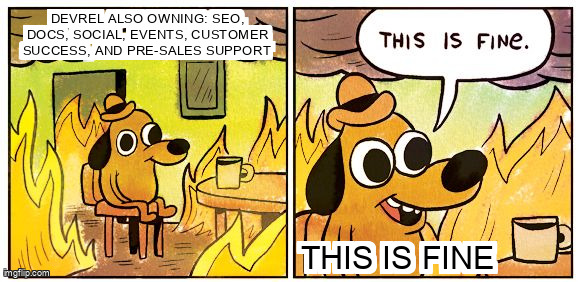
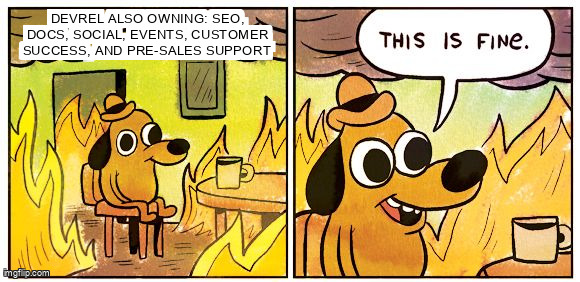
fix: fix h4 formatting, vary framework stage structure, fix This Is Fine meme

Changed region(s): [[0.4966, 0.8511, 0.869, 0.9929]]

diff --git a/src/content/blog/running-devrel-2026.md b/src/content/blog/running-devrel-2026.md
@@ -79,43 +79,45 @@ The reason I find it useful: most DevRel programs measure activity, not progress
 
 ### Discover
 
-Developer first encounters your product. They searched for something, found your docs, hit your README, heard about you in a Slack channel. You have maybe 30 seconds.
+Developer first hears about you. Searched for a solution, found your docs, hit your README, caught your name in a Slack channel. You have maybe 30 seconds before they decide whether to keep reading.
 
-What breaks here: a homepage that explains the architecture before explaining the problem you solve, a README with three paragraphs and no working example, thin search presence on the queries your ICP actually types. Developer bounces before understanding why they should care.
+The metric question here is simple: are developers finding us? Organic traffic by source, search rankings for ICP queries, AI referral traffic. Not "are we publishing" - whether the publishing is actually reaching people.
 
-What I track: organic traffic by source, search rankings for ICP queries, content engagement rates, AI referral traffic. The question is "are developers finding us?" - not "are we publishing?"
+The most common break at this stage isn't thin content. It's a homepage that leads with architecture instead of the problem it solves.
 
 ### Evaluate
 
-Developer decides whether the product is worth trying. They read docs, look at pricing, check how active the GitHub repo is, compare you against alternatives.
+Developer decides whether the product is worth trying. They read docs, look at pricing, check GitHub activity, compare against alternatives. Three things will kill this stage before they ever try the product:
 
-What breaks here: "contact sales" where pricing should be, a changelog that hasn't been updated in six months, a GitHub issues backlog full of unanswered questions. All of it signals risk. Developer moves on.
+- "Contact sales" where pricing should be
+- A changelog that hasn't moved in six months
+- A GitHub issues backlog full of unanswered questions
 
-What I track: docs page views (especially getting-started sections), pricing page scroll depth, competitor comparison page traffic, free tier signup conversion. The goal is getting from "found you" to "made an account."
+All three signal the same thing: risk. Developer moves on.
+
+I track docs page views on getting-started sections and pricing page scroll depth. If people are reading but not signing up, that's an Evaluate problem - something in the friction between "found you" and "made an account."
 
 ### Learn
 
-Developer tries to get something working. This is where most developer tools die.
+This is where most developer tools die. Not because the product is bad - because the first 20 minutes are brutal.
 
-Time to first value is the number here. How long from "I signed up" to "I have a working implementation"? If it's past 20 minutes, stop everything and fix that. No content strategy compensates for a quickstart that fails on half the platforms your developers actually use. Benchmark it yourself against competitors with a stopwatch.
+Time to first value is the number that matters here. How long from "I signed up" to "I have a working output"? If it's past 20 minutes, nothing else matters until you fix that. I benchmark this myself against two or three competitors with an actual stopwatch. Not a gut feeling. A stopwatch.
 
-What I track: tutorial completion rates, docs search queries (failed searches are the most valuable - they show you exactly what's missing), community question volume, average time to resolution. When the same question keeps appearing in community, that's a docs bug masquerading as a support problem.
+Failed docs searches are the most underrated signal I track. Every search query with zero results is a gap someone hit in the wild. When the same question keeps coming up in community, that's a docs bug - not a support problem.
 
 ### Build
 
-Developer is doing real work. API calls, integrations, debugging production-adjacent problems.
+Developer is doing real work. API calls, integrations, debugging against production data.
 
-DevRel's job at this stage is less about content and more about making sure the feedback loop back to engineering actually functions. SDK quality matters here. Error messages either help or actively hurt. The difference between "this is annoying" and "I'm switching to the competitor" usually happens quietly, in a terminal window, when something fails and the error is useless.
+DevRel's job at Build is less about content and more about whether the feedback loop to engineering actually works. SDK quality matters here in ways that tutorials can't compensate for. Error messages either help or they don't. The switch to a competitor usually happens quietly, alone, when something fails and the error is useless.
 
-What I track: API call volume, feature adoption rates, support ticket topics. Error message frequency patterns are underrated - a specific error showing up repeatedly in support tickets is almost always a product problem, not a documentation problem.
+A specific error appearing repeatedly in support tickets is almost never a support problem. It's a product problem. Flagging that pattern upstream is some of the highest-leverage work I do at this stage.
 
 ### Scale
 
-Developer is in production and has committed. Now the question is whether they stay, expand, and tell other people.
+Developer is in production. They've committed. Now the question is: do they stay, expand, and tell other people?
 
-This is where community advocacy becomes measurable as a business outcome. A developer who's been in production six months, answers other people's questions, and refers their team to the tool - that's pipeline. Not theoretical pipeline. Actual revenue-correlated behavior. Most companies treat these people as a side effect rather than the asset they are.
-
-What I track: production deployment counts, upgrade and conversion rates, churn signals, referral rates. Community advocacy signals - who's answering other people's questions? Who's sharing their implementations publicly? Those developers are your best growth surface.
+This is the stage most DevRel programs ignore - because the work is less visible and the feedback loop is long. But it's where community advocacy becomes a measurable business asset. A developer who's been in production six months, answers other people's questions publicly, and refers their team? That's pipeline with a long first-touch trail. Track upgrade and conversion rates, churn signals, and referral rates. Watch who's answering questions in your Discord and sharing their implementations publicly. Those people are not a side effect. They're the program working.
 
 ---
 
@@ -154,11 +156,17 @@ Before you invest in any channel, you need to know what's actually broken.
 
 I spend the first 30 days on a Developer Discoverability Audit before touching anything else. The goal is evidence, not opinions. Specifically, I look at three things in parallel.
 
-#### Technical site health Every subdomain - docs, blog, app, changelog, API reference. Core Web Vitals, robots.txt hygiene, internal link structure (docs siloed on a separate subdomain build authority independently instead of contributing to yours), redirect chains, keyword cannibalization between the blog and the docs, structured data gaps. The tool I use is Ahrefs at ~$129/month - not cheap, but one found indexing bug pays for a year of the subscription. If budget is tight, Screaming Frog has a free tier that handles up to 500 URLs. Run a content gap analysis against two or three competitors. What are they ranking for that you aren't? That becomes your content priority list.
+#### Technical site health
 
-#### LLM presence Open GPT-4o, Claude, Gemini, and Perplexity. Type in your ICP's actual queries. "Best tool for real-time analytics on streaming data." "Compare [your product] vs [competitor]." Document where you appear, how you're described, what gets wrong about you, where competitors show up instead. Check your README quality and your examples directory. Check whether you have a `llms.txt` - honest caveat: as of early 2026 there's no confirmed evidence that major AI platforms read this, but it costs 10 minutes and signals intent.
+Every subdomain - docs, blog, app, changelog, API reference. Core Web Vitals, robots.txt hygiene, internal link structure (docs siloed on a separate subdomain build authority independently instead of contributing to yours), redirect chains, keyword cannibalization between the blog and the docs, structured data gaps. The tool I use is Ahrefs at ~$129/month - not cheap, but one found indexing bug pays for a year of the subscription. If budget is tight, Screaming Frog has a free tier that handles up to 500 URLs. Run a content gap analysis against two or three competitors. What are they ranking for that you aren't? That becomes your content priority list.
 
-#### Developer UX Go through the product as a complete stranger. No internal Slack, no engineer sitting next to you. Measure time to first value - meaning how long from landing on your homepage to getting a working output. Benchmark against two or three competitors, with a stopwatch. Does the quickstart work on an M-series Mac? On Windows? In Docker? Can every code snippet be copy-pasted and run without modification? What happens when something goes wrong - are errors searchable? Do they tell you what to do next?
+#### LLM presence
+
+Open GPT-4o, Claude, Gemini, and Perplexity. Type in your ICP's actual queries. "Best tool for real-time analytics on streaming data." "Compare [your product] vs [competitor]." Document where you appear, how you're described, what gets wrong about you, where competitors show up instead. Check your README quality and your examples directory. Check whether you have a `llms.txt` - honest caveat: as of early 2026 there's no confirmed evidence that major AI platforms read this, but it costs 10 minutes and signals intent.
+
+#### Developer UX
+
+Go through the product as a complete stranger. No internal Slack, no engineer sitting next to you. Measure time to first value - meaning how long from landing on your homepage to getting a working output. Benchmark against two or three competitors, with a stopwatch. Does the quickstart work on an M-series Mac? On Windows? In Docker? Can every code snippet be copy-pasted and run without modification? What happens when something goes wrong - are errors searchable? Do they tell you what to do next?
 
 The deliverable is what I call a "State of Developer Experience" brief. A prioritized list of what's broken, with severity ratings, backed by data. Not a content plan. Not a pitch deck. Evidence of where you're leaking discoverability, specific enough that engineering and product can act on it.
 
